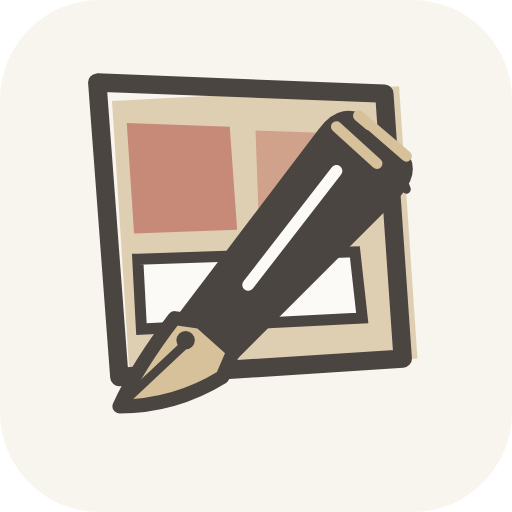
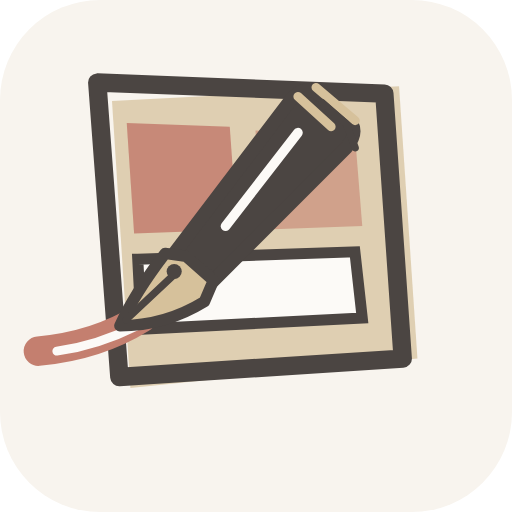
Switch active brand mark to Drawing Ink

Changed region(s): [[0.0312, 0.1562, 0.8125, 0.8125]]

diff --git a/frontend/tests/brandAssets.test.js b/frontend/tests/brandAssets.test.js
@@ -28,6 +28,27 @@ test('favicon, touch icon, and web manifest assets are linked and present', () =
   }
 });
 
+test('active mark, favicon, and app icon are the Drawing Ink sources', () => {
+  const brandDir = path.join(repo, 'docs/assets/brand');
+  const read = (dir, name) => readFileSync(path.join(dir, name), 'utf8');
+  for (const [active, concept] of [['mark', 'mark'], ['favicon', 'favicon'], ['app-icon', 'app-icon']]) {
+    assert.equal(read(path.join(staticDir, 'brand'), `${active}.svg`), read(brandDir, `04-drawing-ink-${concept}.svg`), `${active}.svg must match the Drawing Ink alternate`);
+  }
+  const favicon = read(path.join(staticDir, 'brand'), 'favicon.svg');
+  const ink = favicon.match(/stroke="#C47F6F" stroke-width="(\d+)" stroke-linecap="round"/);
+  assert.ok(ink && Number(ink[1]) >= 11, 'favicon ink line must stay thick enough for 16 px');
+  assert.match(favicon, /viewBox="1 6 110 110"/, 'favicon must keep the tight crop');
+  assert.match(read(path.join(staticDir, 'brand'), 'mark.svg'), /drawing-ink/, 'active mark must be Drawing Ink');
+  assert.match(readFileSync(path.join(repo, 'README.md'), 'utf8'), /04-drawing-ink-mark\.svg/, 'README must show the active mark');
+  const pdf = readFileSync(path.join(repo, 'ai/app/services/pdf.py'), 'utf8');
+  assert.match(pdf, /0\.77 0\.50 0\.44 RG 2\.5 w 1 J/, 'PDF cover mark must draw the red ink line');
+  for (const [file, size] of [['favicon-32.png', 32], ['apple-touch-icon.png', 180], ['icon-192.png', 192], ['icon-512.png', 512]]) {
+    const png = readFileSync(path.join(staticDir, file));
+    assert.equal(png.readUInt32BE(16), size, `${file} width`);
+    assert.equal(png.readUInt32BE(20), size, `${file} height`);
+  }
+});
+
 test('brand SVG concepts stay valid, self-contained, and under the size budget', () => {
   const brandDir = path.join(repo, 'docs/assets/brand');
   const files = readdirSync(brandDir).filter((name) => name.endsWith('.svg'));

diff --git a/ai/app/services/pdf.py b/ai/app/services/pdf.py
@@ -307,13 +307,15 @@ class PdfWriter:
                 b"1 1 1 RG 1.5 w",
                 f"25 {self.height - 73:.2f} m 64 {self.height - 72:.2f} l 66 {self.height - 37:.2f} l 27 {self.height - 38:.2f} l h S".encode(),
                 b"0.77 0.50 0.44 rg",
-                f"30 {self.height - 67:.2f} m 46 {self.height - 66:.2f} l 46 {self.height - 53:.2f} l 30 {self.height - 54:.2f} l h f 50 {self.height - 66:.2f} m 61 {self.height - 66:.2f} l 62 {self.height - 54:.2f} l 50 {self.height - 53:.2f} l h f".encode(),
+                f"29 {self.height - 56:.2f} m 44 {self.height - 55:.2f} l 45 {self.height - 43:.2f} l 30 {self.height - 42:.2f} l h f 47 {self.height - 55:.2f} m 61 {self.height - 55:.2f} l 62 {self.height - 44:.2f} l 48 {self.height - 43:.2f} l h f".encode(),
                 b"0.98 0.96 0.92 rg 1 1 1 RG 1 w",
-                f"30 {self.height - 50:.2f} m 63 {self.height - 49:.2f} l 63 {self.height - 44:.2f} l 30 {self.height - 45:.2f} l h B".encode(),
-                b"0.29 0.27 0.26 rg 1 1 1 RG 2 w",
-                f"31 {self.height - 72:.2f} m 49 {self.height - 49:.2f} l 55 {self.height - 42:.2f} l 61 {self.height - 48:.2f} l 44 {self.height - 73:.2f} l 32 {self.height - 78:.2f} l h B".encode(),
+                f"31 {self.height - 70:.2f} m 62 {self.height - 69:.2f} l 62 {self.height - 60:.2f} l 31 {self.height - 61:.2f} l h B".encode(),
+                b"0.77 0.50 0.44 RG 2.5 w 1 J",
+                f"31 {self.height - 67.1:.2f} m 27 {self.height - 69.4:.2f} 22.5 {self.height - 70.8:.2f} 17 {self.height - 71.3:.2f} c S".encode(),
+                b"0.29 0.27 0.26 rg 1 1 1 RG 2 w 0 J",
+                f"30.5 {self.height - 62.9:.2f} m 45.3 {self.height - 44:.2f} l 50.2 {self.height - 38.3:.2f} l 55.1 {self.height - 43.2:.2f} l 41.2 {self.height - 63.7:.2f} l 31.4 {self.height - 67.8:.2f} l h B".encode(),
                 b"0.84 0.76 0.61 rg 0.2 0.2 0.2 RG 0.8 w",
-                f"31 {self.height - 72:.2f} m 29 {self.height - 78:.2f} l 44 {self.height - 73:.2f} l h B 30 {self.height - 77:.2f} m 38 {self.height - 74:.2f} l S Q".encode(),
+                f"30.5 {self.height - 62.9:.2f} m 28.9 {self.height - 67.8:.2f} l 41.2 {self.height - 63.7:.2f} l h B 29.7 {self.height - 67:.2f} m 36.3 {self.height - 64.5:.2f} l S Q".encode(),
                 b"BT /F2 14 Tf 1.0 1.0 1.0 rg",
                 f"86 {self.height - 49:.2f} Td (ICOMIC GRAPHIC NOVEL SERIES) Tj ET".encode(),
             ]

diff --git a/docs/BRAND.md b/docs/BRAND.md
@@ -1,6 +1,6 @@
 # Icomic brand assets
 
-The shipped direction is **Crossing Pen**: a fountain pen drawn diagonally across the watercolor ink panel. The classic nib, slit and breather hole make it read as an artist's tool, while the panel retains the comic-making reference. The mark uses a simplified nib silhouette in the favicon so it stays recognizable at 16 px.
+The shipped direction is **Drawing Ink**: a fountain pen at the edge of the watercolor ink panel, with a red ink line leaving the nib and the frame. The classic nib, slit and breather hole make it read as an artist's tool, while the panel retains the comic-making reference. The favicon is a simplified companion with no slit or highlights, a thicker ink line with a shorter curl and a tighter crop, so the pointed nib, pen body and ink stay readable at 16 px.
 
 ## Sources
 
@@ -8,15 +8,15 @@ The shipped direction is **Crossing Pen**: a fountain pen drawn diagonally acros
 - `frontend/src/lib/design/theme.css` is the palette token source (`--brand-primary`, `--brand-paper`, `--brand-surface`, `--brand-ink`, and `--brand-accent`). Existing UI tokens alias these values. Keep them aligned with the SVG colors.
 - `docs/assets/brand/` keeps the three original concepts and both pen-panel concepts. All include light and dark lockups, light and dark marks, and a one-color mark. The two pen-panel concepts also include app-icon tiles and simplified favicons.
 
-The active PNG app icons are raster derivatives of `frontend/static/brand/app-icon.svg`; the manifest uses the 192 px and 512 px copies. The PDF cover uses vector paths so the cover remains portable and independent of web assets.
+The active PNG app icons are raster derivatives of `frontend/static/brand/app-icon.svg`; the manifest uses the 192 px and 512 px copies. The PDF cover uses vector paths so the cover remains portable and independent of web assets; those paths mirror the Drawing Ink mark and are hand-kept in sync.
 
 ## Pen-panel directions
 
-- **Crossing Pen** places the pen in front of the panel frame. It is the shipped recommendation because the diagonal body and pointed nib remain distinct at small sizes while the frame is still visible.
-- **Drawing Ink** puts the nib at the panel edge and lets a watercolor stroke leave the frame. It emphasizes the act of drawing, but the extra stroke is less clear at favicon size.
+- **Drawing Ink** puts the nib at the panel edge and lets a watercolor stroke leave the frame. It is the shipped direction and emphasizes the act of drawing. Its ink line is thin at small sizes, so the favicon (and its alternate copy in `docs/assets/brand/`) draws it thicker and shorter.
+- **Crossing Pen** places the pen in front of the panel frame. It was the first recommendation and stays available as an alternate: the diagonal body and pointed nib remain distinct at small sizes while the frame is still visible.
 
 The comparison lockups use hand-built outlined letter paths. Their shared horizontal tracking was increased by about 6% to separate the initial `i` and `c` without changing the letter shapes.
 
 ## Swapping concepts
 
-Choose a concept in `docs/assets/brand/`, then update the active `mark.svg`, `favicon.svg`, `app-icon.svg`, and `wordmark.svg` sources in `frontend/static/brand/`. Keep the SVG colors synchronized with `theme.css`, regenerate the PNG icon fallbacks and preview sheet, and update the PDF cover mark in `ai/app/services/pdf.py`. The original three concepts and both pen-panel options remain available as alternates.
+Choose a concept in `docs/assets/brand/`, then copy its mark, favicon and app icon over the active `mark.svg`, `favicon.svg` and `app-icon.svg` sources in `frontend/static/brand/` (and update `wordmark.svg` if the lettering changes). Every other surface reads those files: the header, footer, loading and empty states use `mark.svg`, `app.html` links the favicon, and the PNG icons and manifest derive from the SVGs. Keep the SVG colors synchronized with `theme.css`, regenerate the PNG icon fallbacks and preview sheet, and update the PDF cover mark in `ai/app/services/pdf.py`. The original three concepts and both pen-panel options remain available as alternates; Crossing Pen is the one to restore if Drawing Ink is ever retired.

diff --git a/README.md b/README.md
@@ -1,5 +1,5 @@
 <p align="center">
-  <img src="docs/assets/brand/04-crossing-pen-mark.svg" alt="Icomic fountain pen crossing an ink panel mark" width="72">
+  <img src="docs/assets/brand/04-drawing-ink-mark.svg" alt="Icomic fountain pen drawing ink out of a panel mark" width="72">
 </p>
 <p align="center">
   <img src="docs/assets/icomics-watercolor-poster.png" alt="Watercolor comic poster for Icomic, with an open book revealing a moonlit city" width="360">
